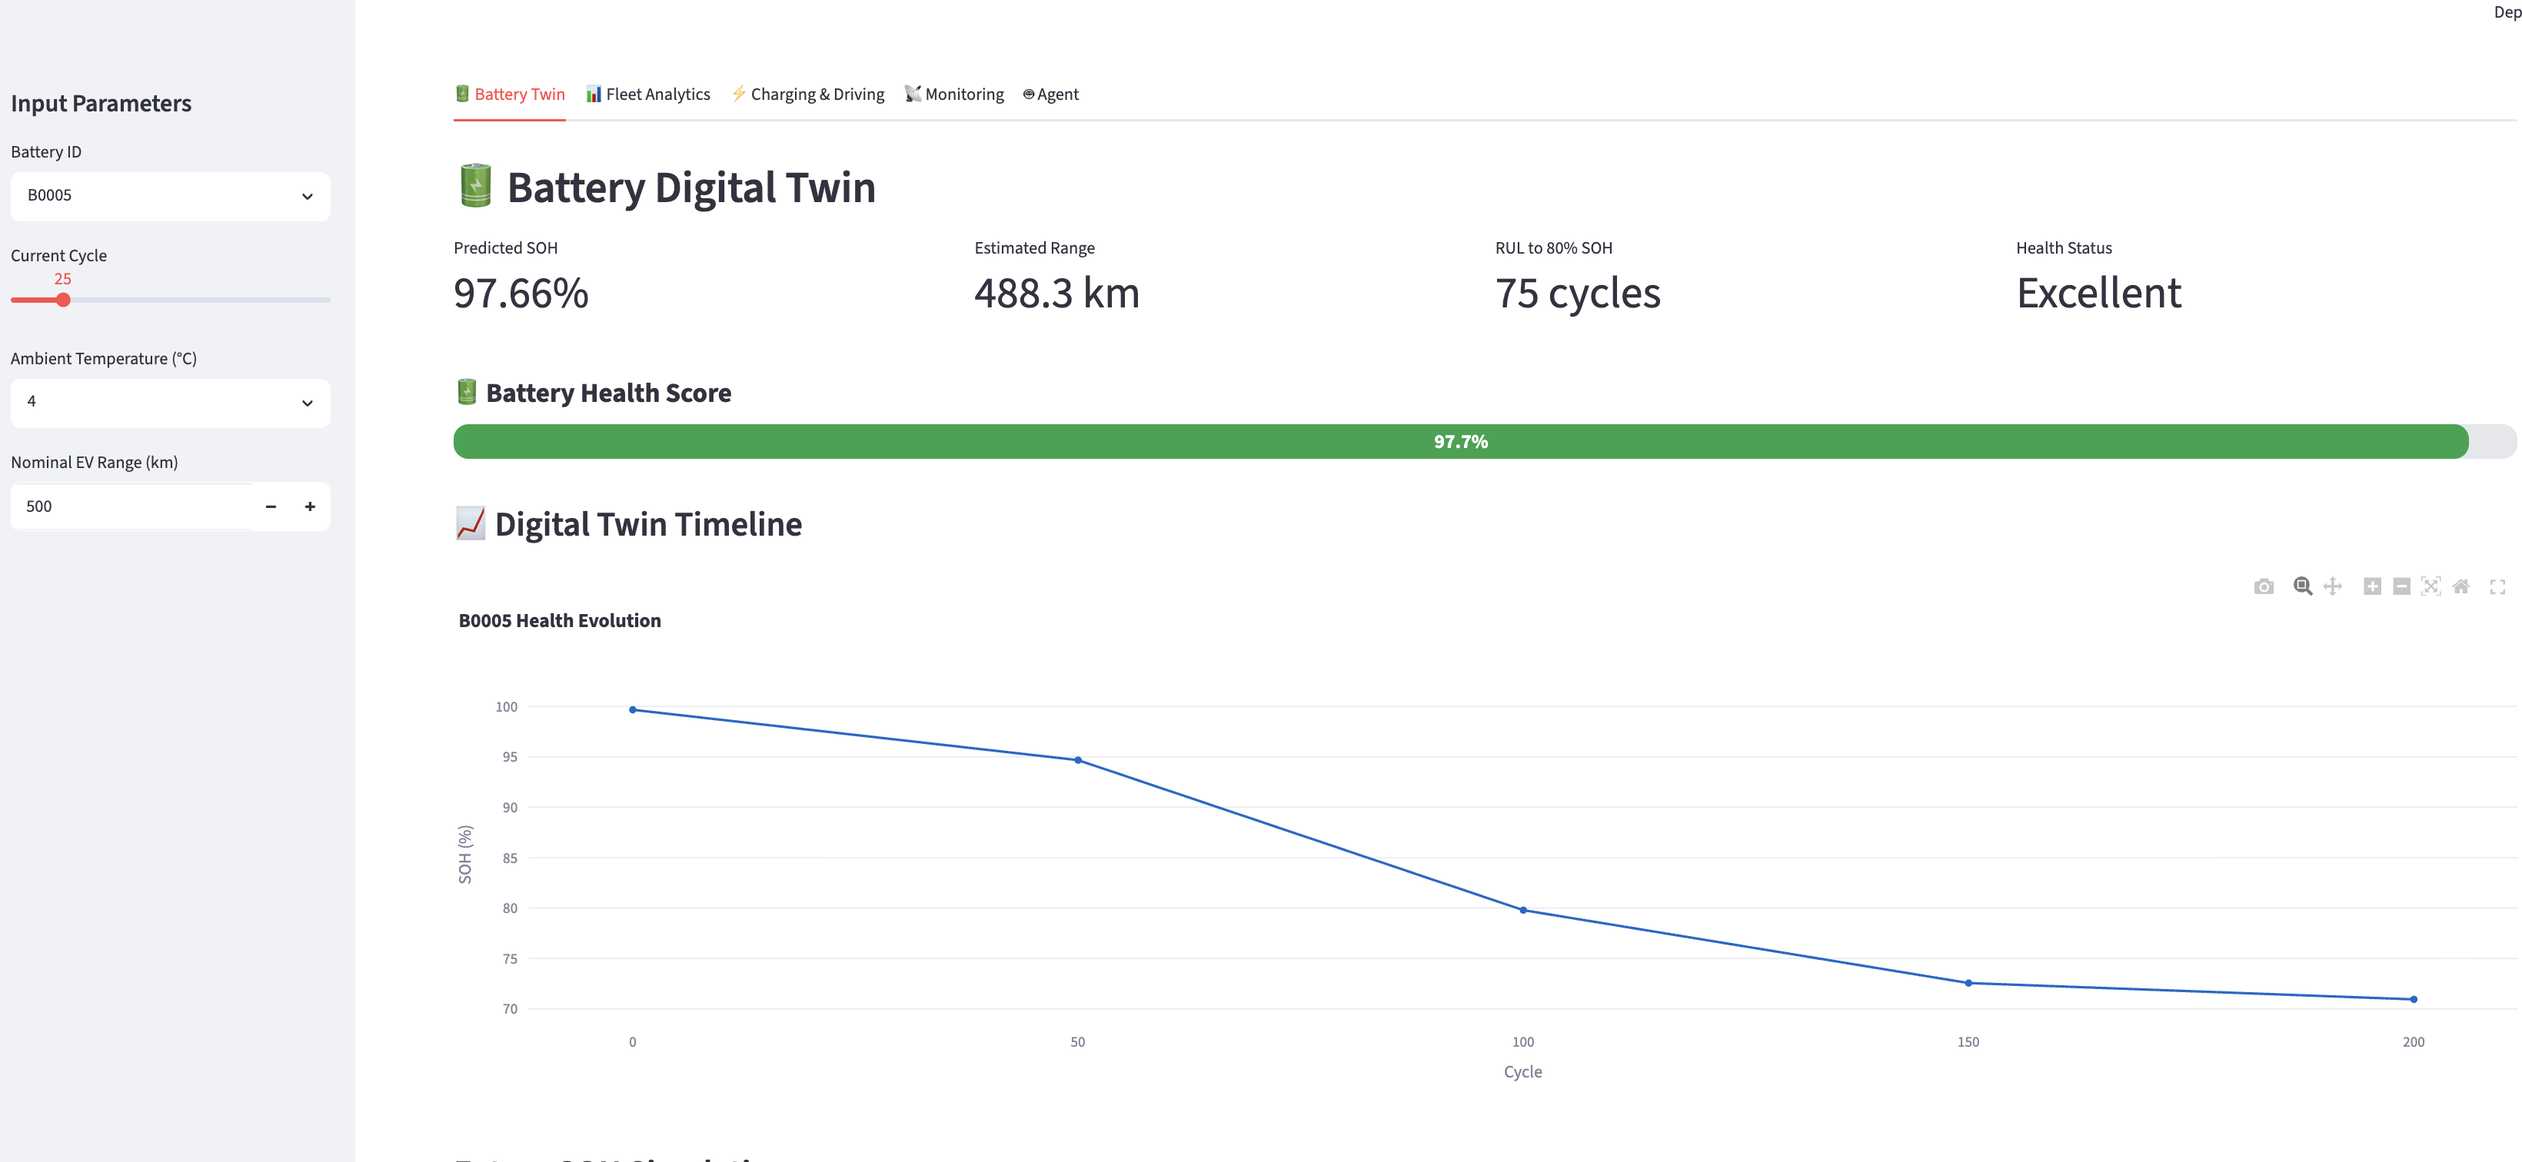
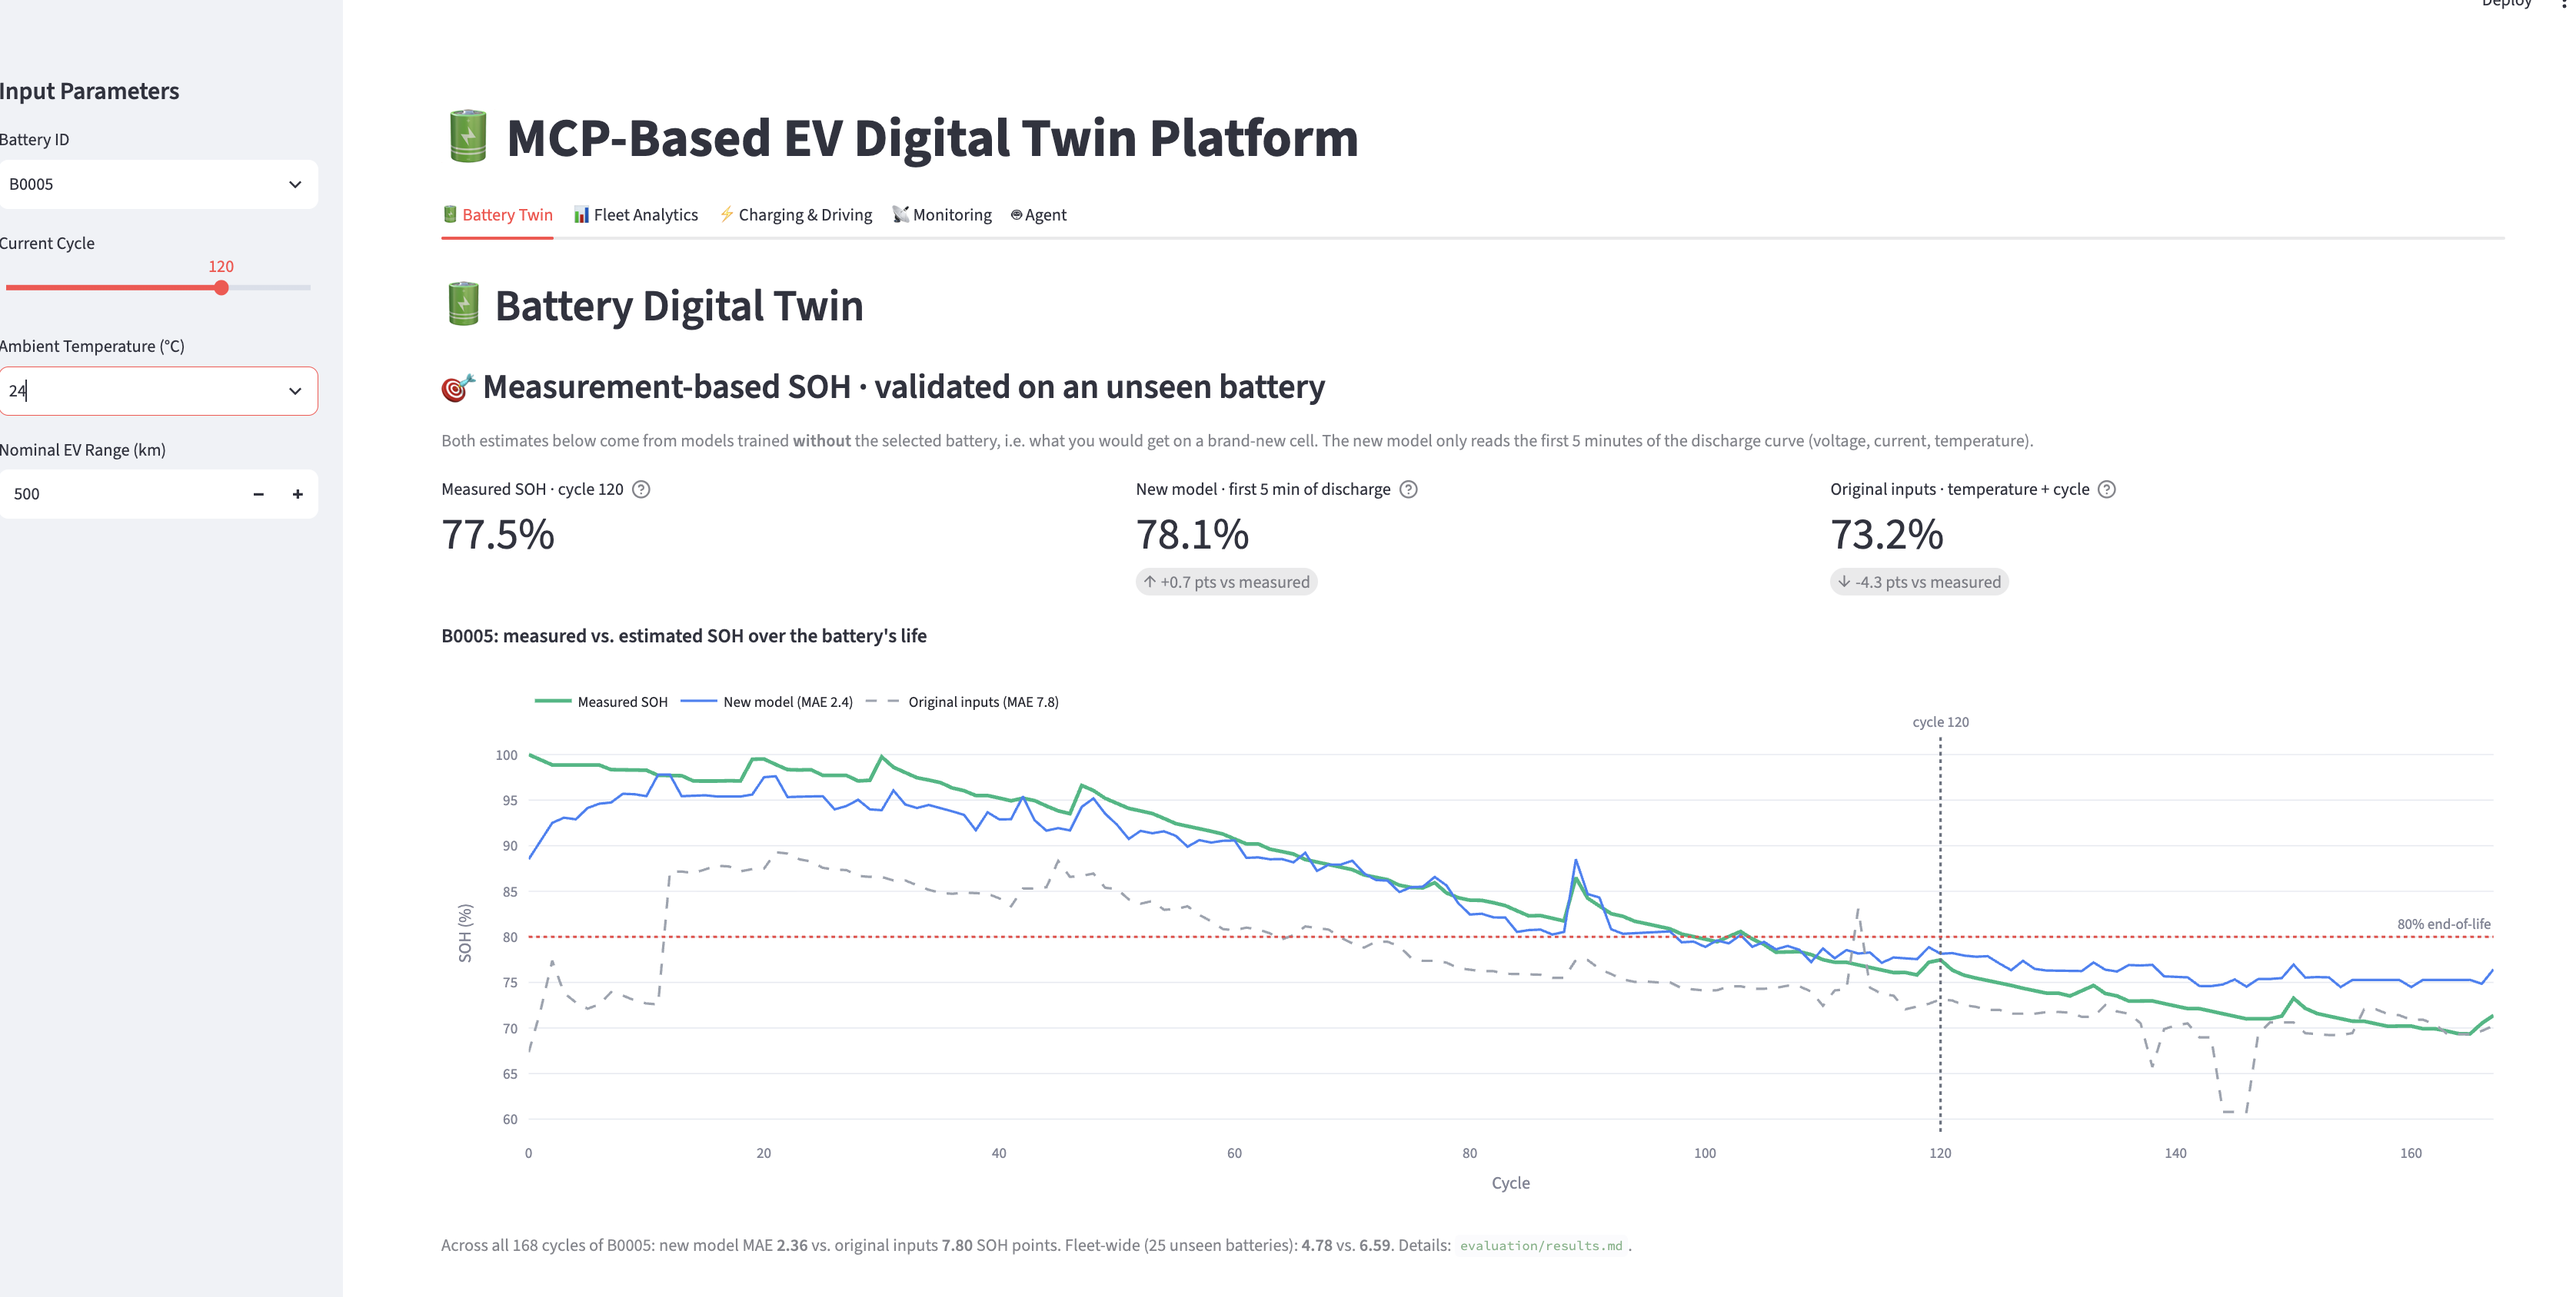
README: new screenshots of the validated SOH view, monitoring and agent
Replaces the old screenshots with the current dashboard (measured vs. estimated SOH on an unseen battery, SOH deviation check, agent with validation block) and adds a one-line caption under each.

diff --git a/README.md b/README.md
@@ -240,24 +240,27 @@ pytest tests/
 
 # 📸 Demo
 
-## Battery Digital Twin
+## Measurement-based SOH on an unseen battery
 
-![](images/a.png)
+![Measured vs. estimated SOH for B0005](images/a.png)
+
+Both models are trained without B0005. Over its 168 cycles the new model is off by 2.4 SOH points on average, the original inputs by 7.8.
 
 ---
 
-## Fleet Intelligence
+## Monitoring and SOH deviation
 
+![System monitoring and SOH deviation from the fleet](images/b.png)
 
-![](images/b.png)
-
-
+System and fleet status, the selected battery's deviation from the fleet mean (z-score) and the fleet SOH distribution.
 
 ---
 
 ## Agentic AI Assistant
 
-![](images/c.png)
+![Agent answering a measurement-based SOH question](images/c.png)
+
+The LLM picks the MCP tool; the validation block (estimated vs. measured SOH) is added from the tool result in code, so its numbers are exact.
 
 ---
 
